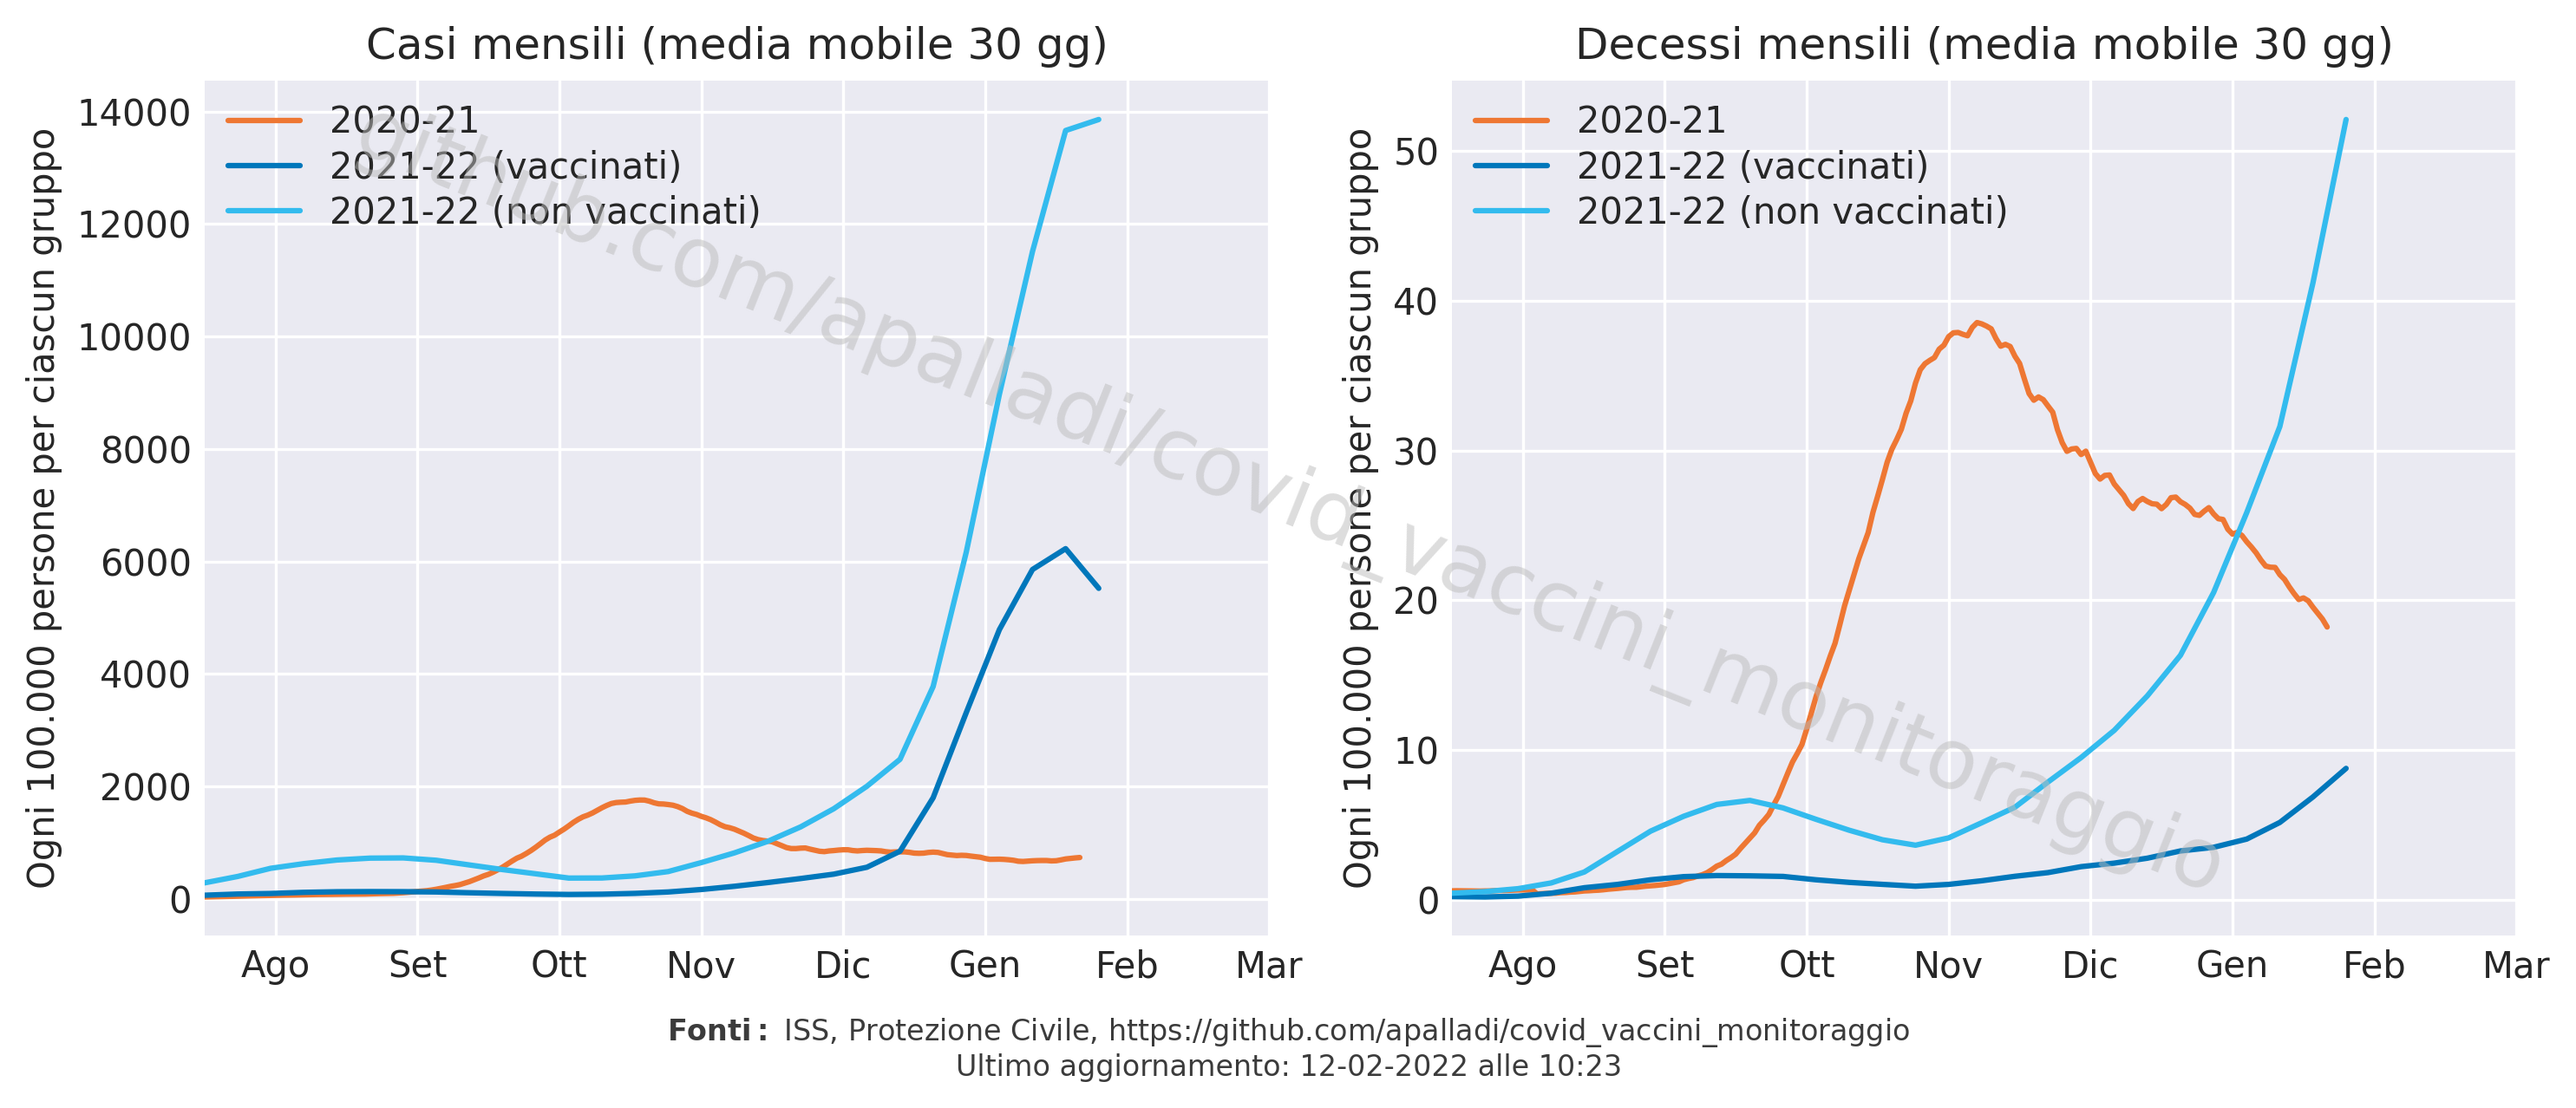
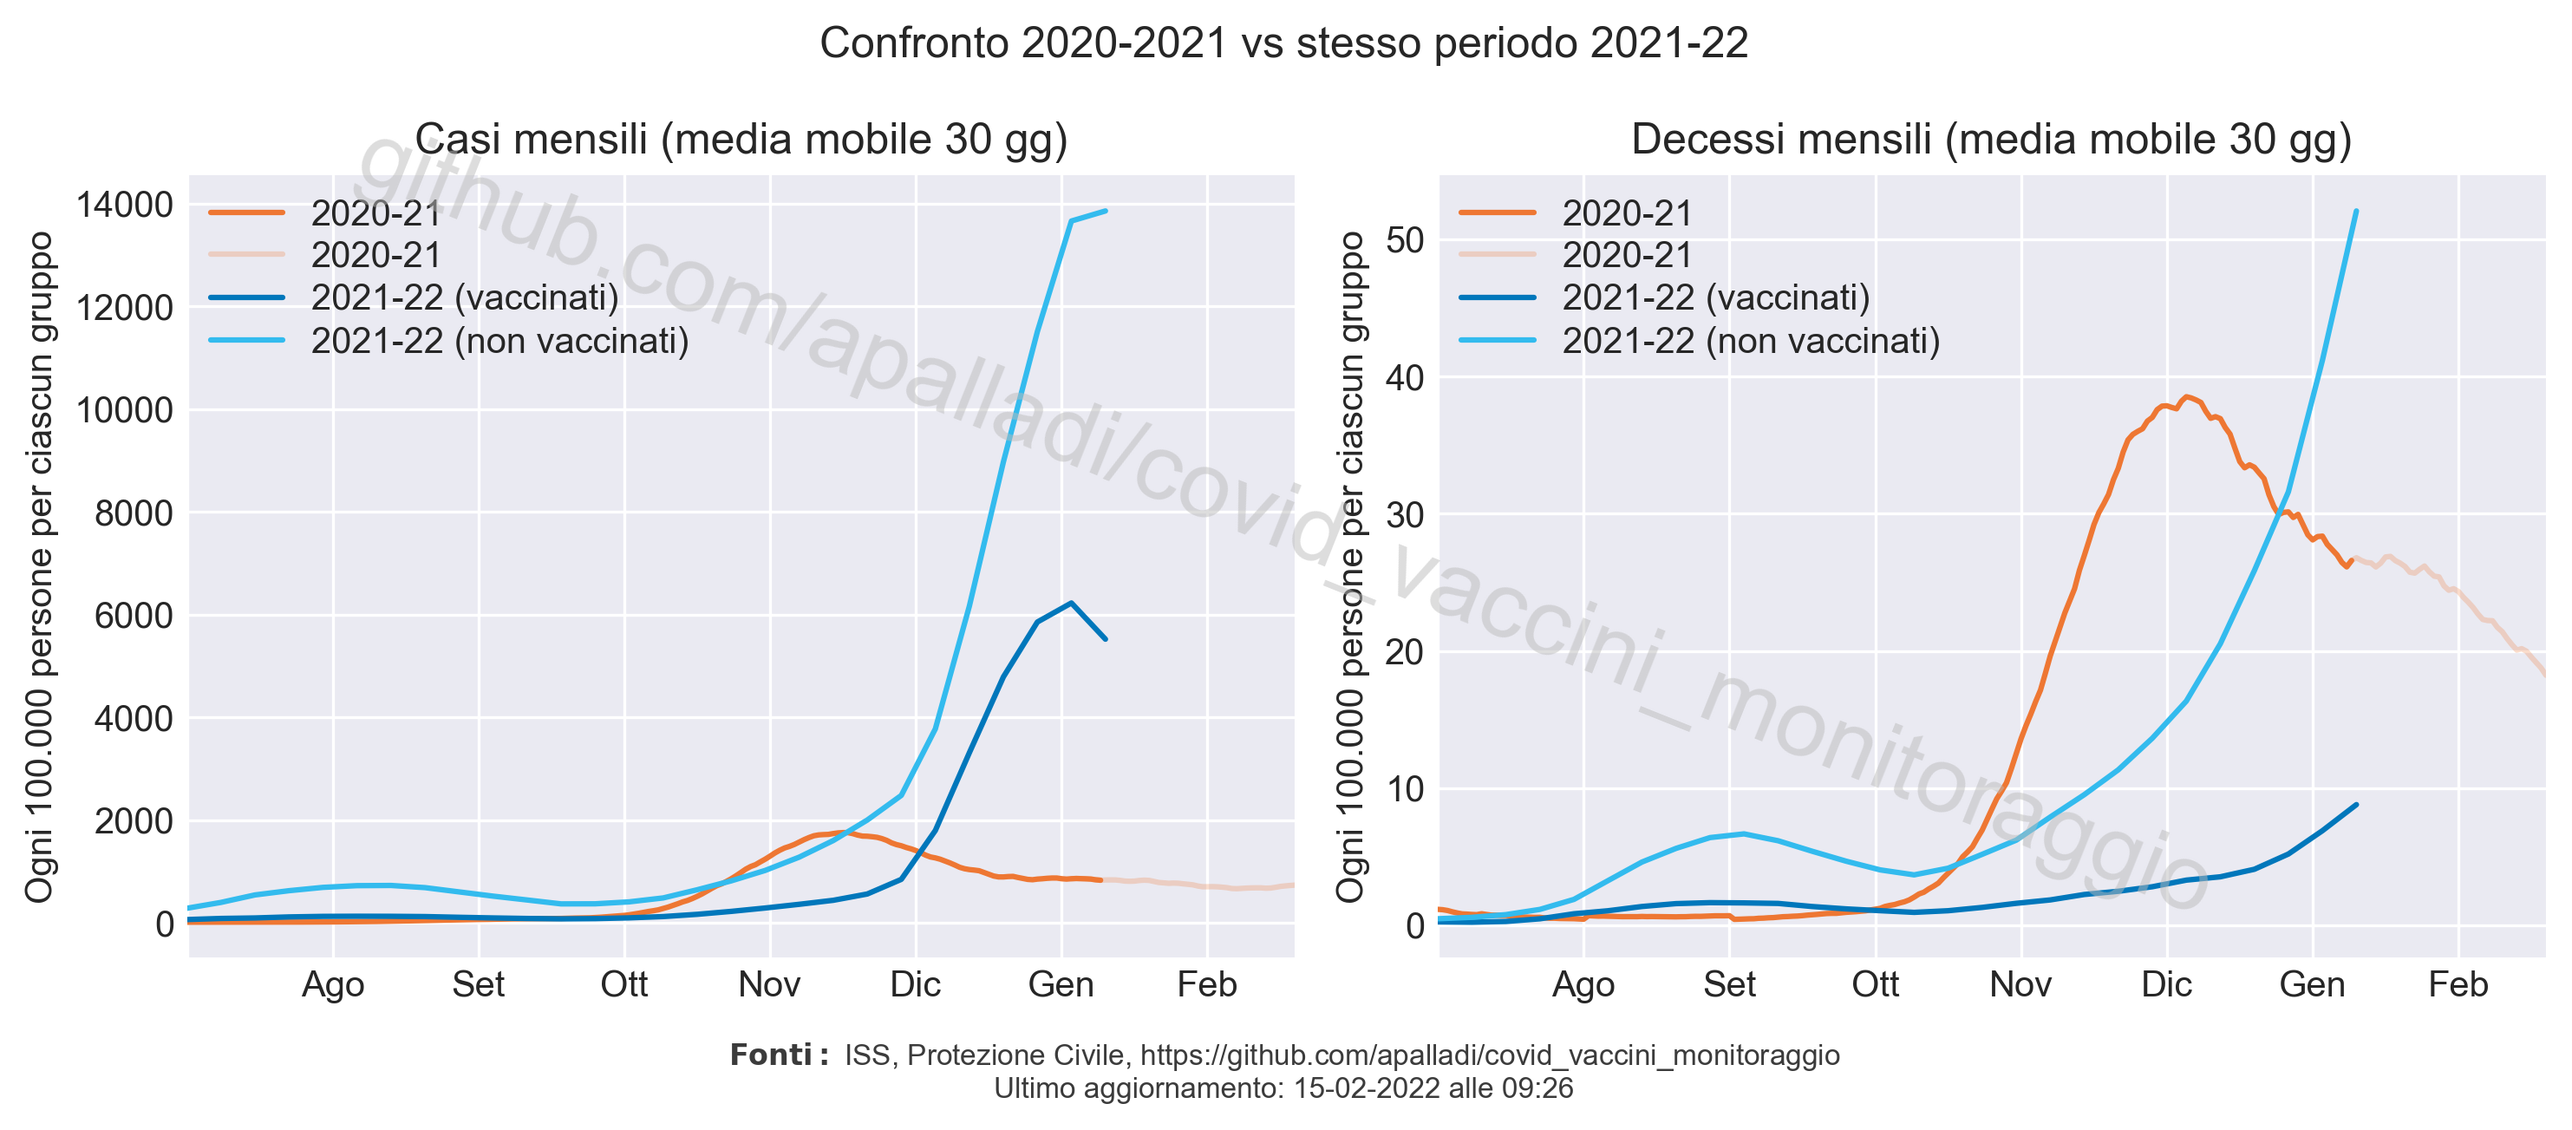
Miglioramento confronto 2020-21/codice

diff --git a/scripts/confronto_2020_2021.py b/scripts/confronto_2020_2021.py
@@ -1,4 +1,7 @@
 # -*- coding: utf-8 -*-
+import locale
+from calendar import monthrange
+from datetime import timedelta
 from os import chdir, path
 
 import matplotlib as mpl
@@ -6,8 +9,9 @@ import matplotlib.pyplot as plt
 import numpy as np
 import pandas as pd
 
-from custom.plots import apply_plot_treatment, get_df_complessivo
-from custom.preprocessing_dataframe import compute_incidence, date_parser
+from custom.plots import apply_plot_treatment, palette
+from custom.preprocessing_dataframe import (compute_incidence,
+                                            get_df_complessivo)
 from custom.watermarks import add_last_updated, add_watermark
 
 
@@ -19,14 +23,13 @@ def import_data():
     url = "https://github.com/pcm-dpc/COVID-19/raw/master/dati-andamento-nazionale/dpc-covid19-ita-andamento-nazionale.csv"
     df_IT = pd.read_csv(url,
                         parse_dates=["data"],
-                        date_parser=date_parser,
                         index_col="data")
     df_epid, df_pop = get_df_complessivo()
 
     # Ricava i tassi, dividendo per la popolazione vaccinati e non vaccinata
     df_tassi = compute_incidence(df_epid, df_pop)
 
-    df_tassi.index = pd.to_datetime(df_epid["data"], format="%Y/%m/%d")
+    df_tassi.index = pd.to_datetime(df_epid["data"])
     df_tassi = df_tassi.iloc[::-1]
     return df_IT, df_epid, df_tassi
 
@@ -37,15 +40,23 @@ def get_epidemic_data_2020():
     # Casi e decessi 2020
     abitanti_over12 = 540*10**5
 
-    df_2020 = df_IT.loc["2020-07-28":"2021-02-28"]
+    df_2020 = df_IT.loc["2020-06-15":end_date]
     df_2020 = df_2020[["totale_casi",
                        "deceduti"]].diff().rolling(window=30).mean()
     df_2020 = df_2020*30/(abitanti_over12/(10**5))
     df_2020.columns = ["casi", "decessi"]
 
+    # Genera ticks e labels prima di plottare
+    to_labels = sorted(set([x.strftime("%Y-%m-01") for x in df_2020[30:].index]))
+    x_labels = [pd.to_datetime(t).strftime("%b")
+                if i != 0 else "" for i, t in enumerate(to_labels)]
+    x_labels = list(map(str.title, x_labels))
+    x_ticks = np.arange(0, len(x_labels)*30, 30)
+
     casi_2020 = np.array(df_2020["casi"])[30:]
     dec_2020 = np.array(df_2020["decessi"])[30:]
-    return casi_2020, dec_2020
+
+    return casi_2020, dec_2020, x_ticks, x_labels
 
 
 def get_epidemic_data_2021():
@@ -65,7 +76,7 @@ def which_axe(ax, title="Casi"):
     ax.set_title(f"{title} mensili (media mobile 30 gg)")
     ax.set_ylabel("Ogni 100.000 persone per ciascun gruppo")
     ax.legend(loc="upper left")
-    ax.set_xlim(0, )
+    ax.margins(x=0)
     ax.grid()
 
 
@@ -81,15 +92,21 @@ def plot_confronto_2020_2021(show=False):
     fig, ax = plt.subplots(nrows=1, ncols=2, figsize=(10, 4))
     axes = ax.ravel()
 
-    axes[0].plot(xgrid_2020, casi_2020, label="2020-21")
+    axes[0].plot(xgrid_2020[:xgrid_2021[-1]], casi_2020[:xgrid_2021[-1]], label="2020-21")
+    axes[0].plot(xgrid_2020[xgrid_2021[-2]:], casi_2020[xgrid_2021[-2]:],
+                 label="2020-21", color=palette[0], alpha=0.25)
     axes[0].plot(xgrid_2021, casi_2021_vacc, label="2021-22 (vaccinati)")
     axes[0].plot(xgrid_2021, casi_2021_novacc, label="2021-22 (non vaccinati)")
     which_axe(axes[0])
 
-    axes[1].plot(xgrid_2020, dec_2020, label="2020-21")
+    axes[1].plot(xgrid_2020[:xgrid_2021[-1]], dec_2020[:xgrid_2021[-1]], label="2020-21")
+    axes[1].plot(xgrid_2020[xgrid_2021[-2]:], dec_2020[xgrid_2021[-2]:],
+                 label="2020-21", color=palette[0], alpha=0.25)
     axes[1].plot(xgrid_2021, dec_2021_vacc, label="2021-22 (vaccinati)")
     axes[1].plot(xgrid_2021, dec_2021_novacc, label="2021-22 (non vaccinati)")
     which_axe(axes[1], title="Decessi")
+
+    fig.suptitle("Confronto 2020-2021 vs stesso periodo 2021-22")
 
     # Add watermarks
     add_watermark(fig)
@@ -99,7 +116,7 @@ def plot_confronto_2020_2021(show=False):
     fig.savefig("../risultati/confrontro_2020_2021.png",
                 dpi=300,
                 bbox_inches="tight")
-    if show is True:
+    if show:
         plt.show()
 
 
@@ -108,15 +125,22 @@ if __name__ == "__main__":
     scriptpath = path.dirname(path.realpath(__file__))
     chdir(scriptpath)
 
+    # Set locale to "it" to parse the month correctly
+    locale.setlocale(locale.LC_ALL, "it_IT.UTF-8")
+
     # Imposta stile grafici
     apply_plot_treatment()
 
     df_IT, df_epid, df_tassi = import_data()
-    casi_2020, dec_2020 = get_epidemic_data_2020()
-    casi_2021_vacc, casi_2021_novacc, dec_2021_vacc, dec_2021_novacc = get_epidemic_data_2021()
 
-    x_ticks = np.arange(15, 230, 30)
-    x_labels = ["Ago", "Set", "Ott", "Nov", "Dic", "Gen", "Feb", "Mar"]
+    # Calcola data fine df 2020-21
+    # E' il primo giorno del mese successivo alla data dell'ultimo report
+    end_date = df_tassi.index[-1].date().replace(year=2021)
+    end_date = end_date.replace(day=monthrange(end_date.year, end_date.month)[1])\
+        + timedelta(days=1)
+
+    casi_2020, dec_2020, x_ticks, x_labels = get_epidemic_data_2020()
+    casi_2021_vacc, casi_2021_novacc, dec_2021_vacc, dec_2021_novacc = get_epidemic_data_2021()
 
     # Plot data
     plot_confronto_2020_2021()

diff --git a/scripts/efficacia_vaccini.py b/scripts/efficacia_vaccini.py
@@ -14,12 +14,6 @@ from custom.watermarks import add_last_updated, add_watermark
 
 colori_incidenza = [palette[i] for i in [6, 0, 1, 2, 3]]
 
-eventi = [["Casi, non vaccinati", "Casi, vaccinati > 4-6 mesi", "Casi, vaccinati completo", "Casi, booster", "Casi, vaccinati < 4-6 mesi"],
-          ["Ospedalizzati, non vaccinati", "Ospedalizzati, vaccinati > 4-6 mesi", "Ospedalizzati, vaccinati completo", "Ospedalizzati, booster", "Ospedalizzati, vaccinati < 4-6 mesi"],
-          ["In terapia intensiva, non vaccinati", "In terapia intensiva, vaccinati > 4-6 mesi", "In terapia intensiva, vaccinati completo", "In terapia intensiva, booster", "In terapia intensiva, vaccinati < 4-6 mesi"],
-          ["Deceduti, non vaccinati", "Deceduti, vaccinati > 4-6 mesi", "Deceduti, vaccinati completo", "Deceduti, booster", "Deceduti, vaccinati < 4-6 mesi"]]
-titoli = ["dei nuovi casi", "degli ospedalizzati", "dei ricoveri in TI", "dei deceduti"]
-
 
 def compute_efficacia():
     """ Calcola efficacia vaccini """
@@ -283,6 +277,12 @@ if __name__ == "__main__":
 
     # Imposta stile grafici
     apply_plot_treatment()
+
+    eventi = [["Casi, non vaccinati", "Casi, vaccinati > 4-6 mesi", "Casi, vaccinati completo", "Casi, booster", "Casi, vaccinati < 4-6 mesi"],
+              ["Ospedalizzati, non vaccinati", "Ospedalizzati, vaccinati > 4-6 mesi", "Ospedalizzati, vaccinati completo", "Ospedalizzati, booster", "Ospedalizzati, vaccinati < 4-6 mesi"],
+              ["In terapia intensiva, non vaccinati", "In terapia intensiva, vaccinati > 4-6 mesi", "In terapia intensiva, vaccinati completo", "In terapia intensiva, booster", "In terapia intensiva, vaccinati < 4-6 mesi"],
+              ["Deceduti, non vaccinati", "Deceduti, vaccinati > 4-6 mesi", "Deceduti, vaccinati completo", "Deceduti, booster", "Deceduti, vaccinati < 4-6 mesi"]]
+    titoli = ["dei nuovi casi", "degli ospedalizzati", "dei ricoveri in TI", "dei deceduti"]
 
     # Recupera dati età
     df_età = pd.read_excel("../dati/dati_ISS_età.xlsx", sheet_name=None,

diff --git a/scripts/andamento_rapporti_incidenze.py b/scripts/andamento_rapporti_incidenze.py
@@ -12,13 +12,6 @@ from custom.plots import (apply_plot_treatment, get_xticks_labels,
 from custom.preprocessing_dataframe import compute_incidence
 from custom.watermarks import add_last_updated, add_watermark
 
-classi_età = ["12-39", "40-59", "60-79", "80+"]
-
-shared_legend = ["12-39 non vaccinati", "40-59 non vaccinati",
-                 "60-79 non vaccinati", "80+ non vaccinati",
-                 "12-39 vaccinati", "40-59 vaccinati",
-                 "60-79 vaccinati", "80+ vaccinati"]
-
 
 # Funzioni per il plot
 def compute_incidence_ratio(category):
@@ -188,7 +181,7 @@ def plot_assoluti_incidenza_età(categorie, titoli, filename, show=False):
     fig.tight_layout()
     fig.savefig(filename, dpi=300, bbox_inches="tight")
 
-    if show is True:
+    if show:
         plt.show()
 
 
@@ -202,6 +195,13 @@ if __name__ == "__main__":
 
     # Imposta stile grafici
     apply_plot_treatment()
+
+    classi_età = ["12-39", "40-59", "60-79", "80+"]
+
+    shared_legend = ["12-39 non vaccinati", "40-59 non vaccinati",
+                     "60-79 non vaccinati", "80+ non vaccinati",
+                     "12-39 vaccinati", "40-59 vaccinati",
+                     "60-79 vaccinati", "80+ vaccinati"]
 
     # Recupera dati età
     df_età = pd.read_excel("../dati/dati_ISS_età.xlsx", sheet_name=None,

diff --git a/scripts/custom/preprocessing_dataframe.py b/scripts/custom/preprocessing_dataframe.py
@@ -2,6 +2,16 @@ import numpy as np
 import pandas as pd
 
 
+def get_df_complessivo():
+    # dati ISS
+    df_complessivo = pd.read_excel("../dati/dati_ISS_complessivi.xlsx", sheet_name=None)
+    df_epid = df_complessivo["dati epidemiologici"]
+    df_pop = df_complessivo["popolazioni"]
+    df_epid = df_epid[df_epid["data"] > "2021-07-28"]
+    df_pop = df_pop[df_pop["data"] > "2021-07-28"]
+    return df_epid, df_pop
+
+
 def compute_incidence(df_epid, df_pop):
     # ricava i tassi dividendo per la popolazione vaccinata e non vaccinata
     tassi = [df_epid["casi non vaccinati"]/df_pop["casi non vaccinati"],
@@ -37,12 +47,3 @@ def compute_incidence(df_epid, df_pop):
                         "Deceduti, vaccinati < 4-6 mesi", "Deceduti, booster",
                         "Deceduti, vaccinati completo"]
     return df_tassi
-
-
-def date_parser(x):
-    """date_parser(object) -> datetime
-
-    x: dataframe object
-    return: converts argument to datetime"""
-
-    return pd.to_datetime(x, format="%Y/%m/%d")

diff --git a/scripts/custom/plots.py b/scripts/custom/plots.py
@@ -17,16 +17,6 @@ def apply_plot_treatment():
     mpl.rcParams["axes.prop_cycle"] = mpl.cycler(color=palette)
 
 
-def get_df_complessivo():
-    # dati ISS
-    df_complessivo = pd.read_excel("../dati/dati_ISS_complessivi.xlsx", sheet_name=None)
-    df_epid = df_complessivo["dati epidemiologici"]
-    df_pop = df_complessivo["popolazioni"]
-    df_epid = df_epid[df_epid["data"] > "2021-07-28"]
-    df_pop = df_pop[df_pop["data"] > "2021-07-28"]
-    return df_epid, df_pop
-
-
 def get_xticks_labels(reports_dates=None, full=False):
     if reports_dates is None:
         df_assoluti = pd.read_excel("../dati/dati_ISS_complessivi.xlsx", sheet_name="dati epidemiologici")

diff --git a/scripts/andamento_epidemia.py b/scripts/andamento_epidemia.py
@@ -6,9 +6,9 @@ import matplotlib as mpl
 import matplotlib.pyplot as plt
 import pandas as pd
 
-from custom.plots import (apply_plot_treatment, get_df_complessivo,
-                          get_xticks_labels, palette)
-from custom.preprocessing_dataframe import compute_incidence
+from custom.plots import apply_plot_treatment, get_xticks_labels, palette
+from custom.preprocessing_dataframe import (compute_incidence,
+                                            get_df_complessivo)
 from custom.watermarks import add_last_updated, add_watermark
 
 colori_incidenza = [palette[i] for i in [4, 1, 5]]

diff --git a/dati/dati_selezione.py b/dati/dati_selezione.py
@@ -122,8 +122,7 @@ def clean_raw_table(sel_df):
     return: extract numerical data from the dataframe"""
 
     # We are interested in the last 5 columns
-    columns_to_keep = sel_df.columns[-5:]
-    df_raw = sel_df[columns_to_keep]
+    df_raw = sel_df.iloc[:, -5:]
 
     # select rows containing numbers
     selection = r"[0-9]"
